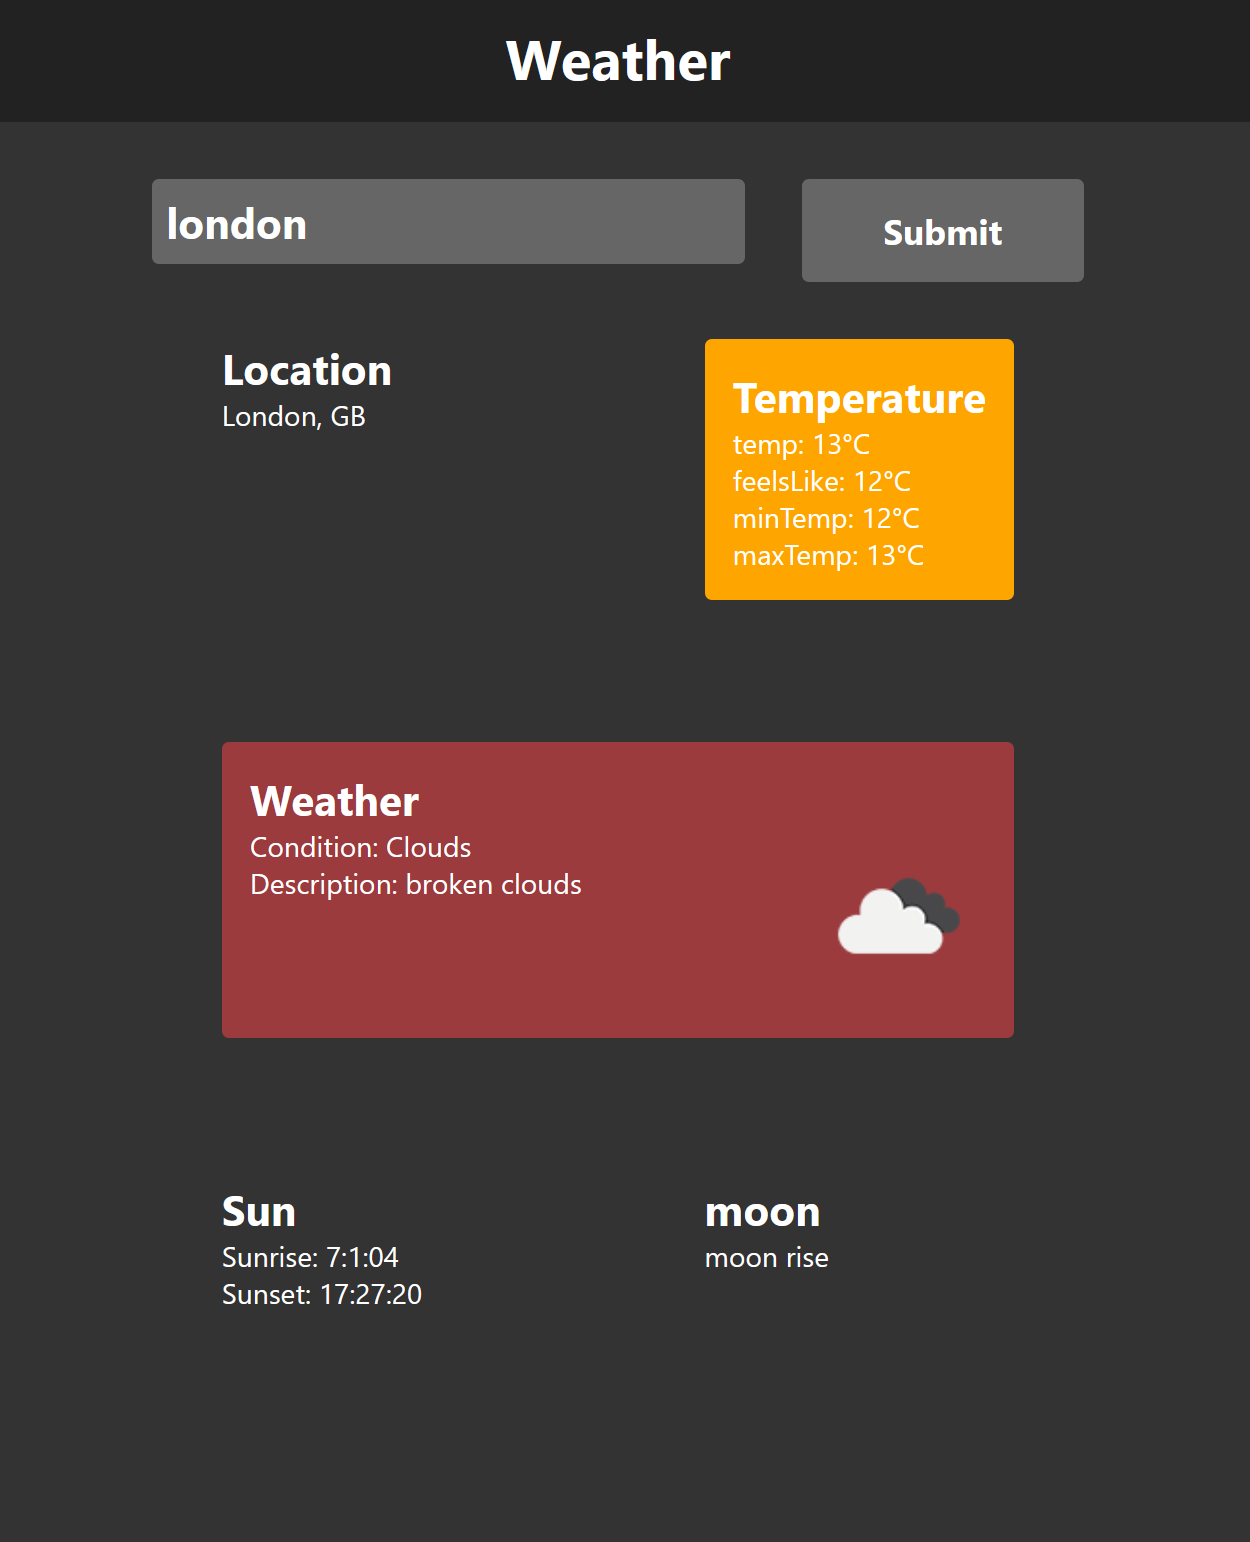
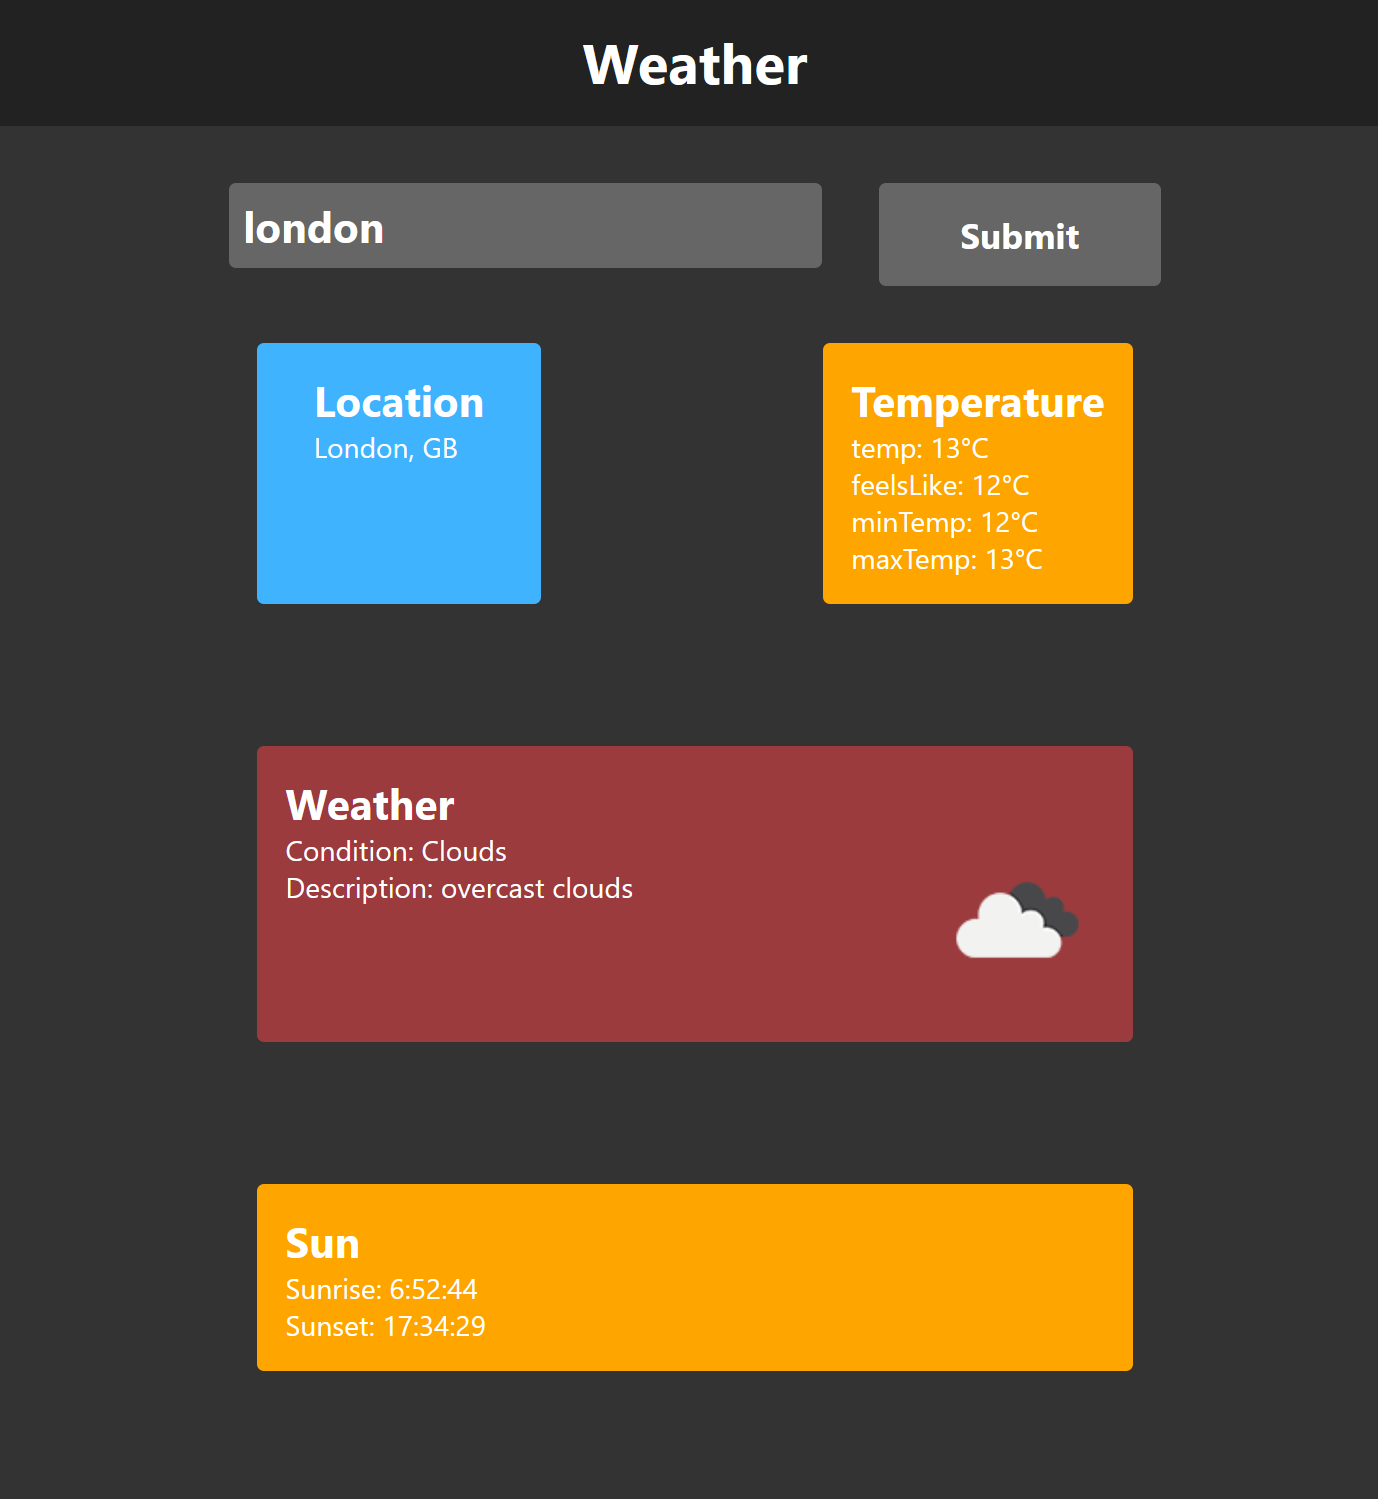
aded project link, updated weather app image

diff --git a/js/projectList.js b/js/projectList.js
@@ -20,7 +20,7 @@ export const projectInfo = [
   },
 
   {
-    link: "#",
+    link: "https://jaydeep080805.github.io/dew-point/",
     image: "./images/dew_point.png",
     imageAlt: "Screenshot of dew point calculator front page",
     title: "Dew Point Calculator",
@@ -30,7 +30,7 @@ export const projectInfo = [
   },
 
   {
-    link: "#",
+    link: "https://jaydeep080805.github.io/weather_app/",
     image: "./images/weather_app.png",
     imageAlt: "Screenshot of weather app front page",
     title: "Weather App",
@@ -63,7 +63,7 @@ export const projectInfo = [
   },
 
   {
-    link: "",
+    link: "https://github.com/jaydeep080805/accom_room_tracker",
     image: "./images/python.png",
     imageAlt: "Python logo image",
     title: "Selenium Script",
